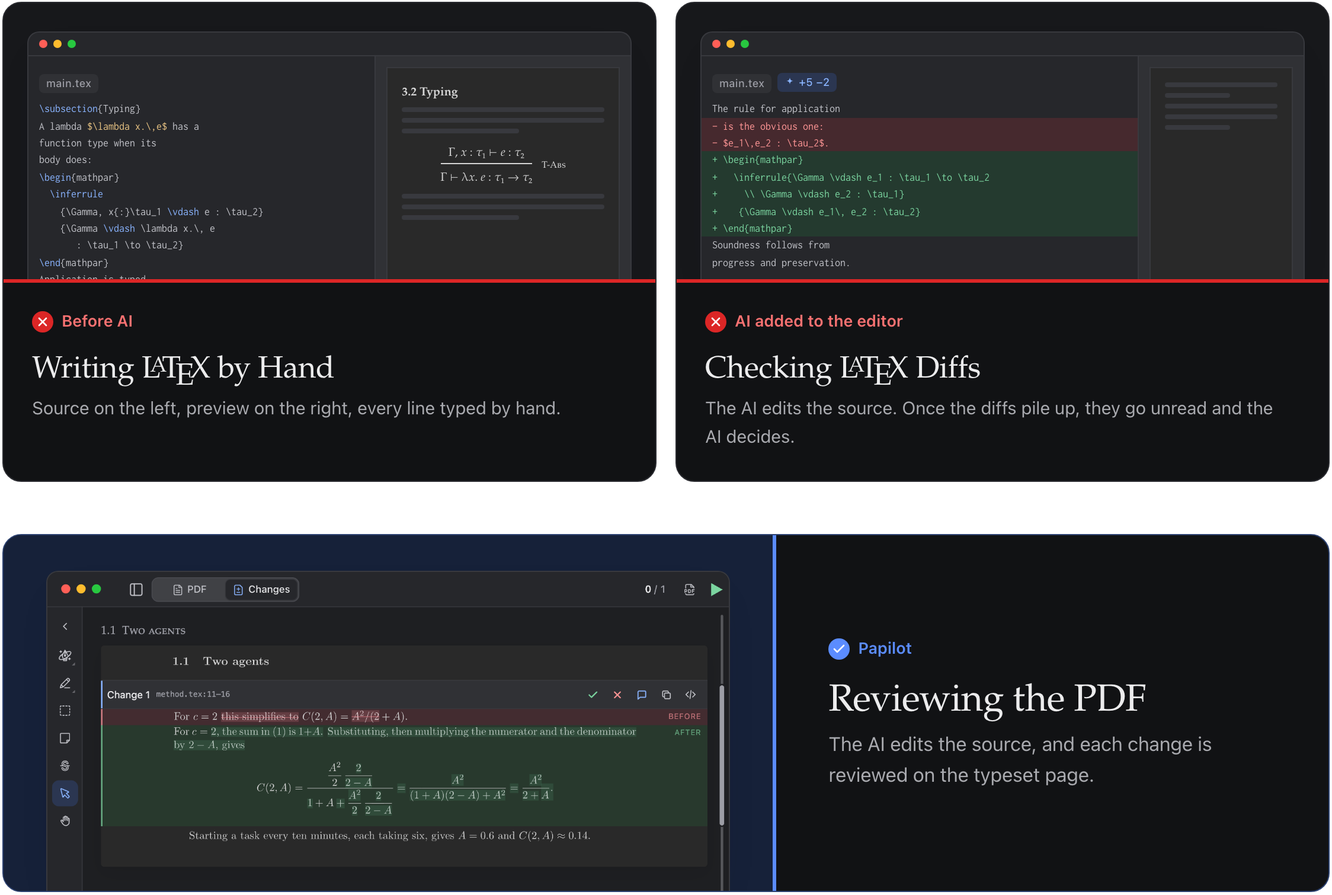
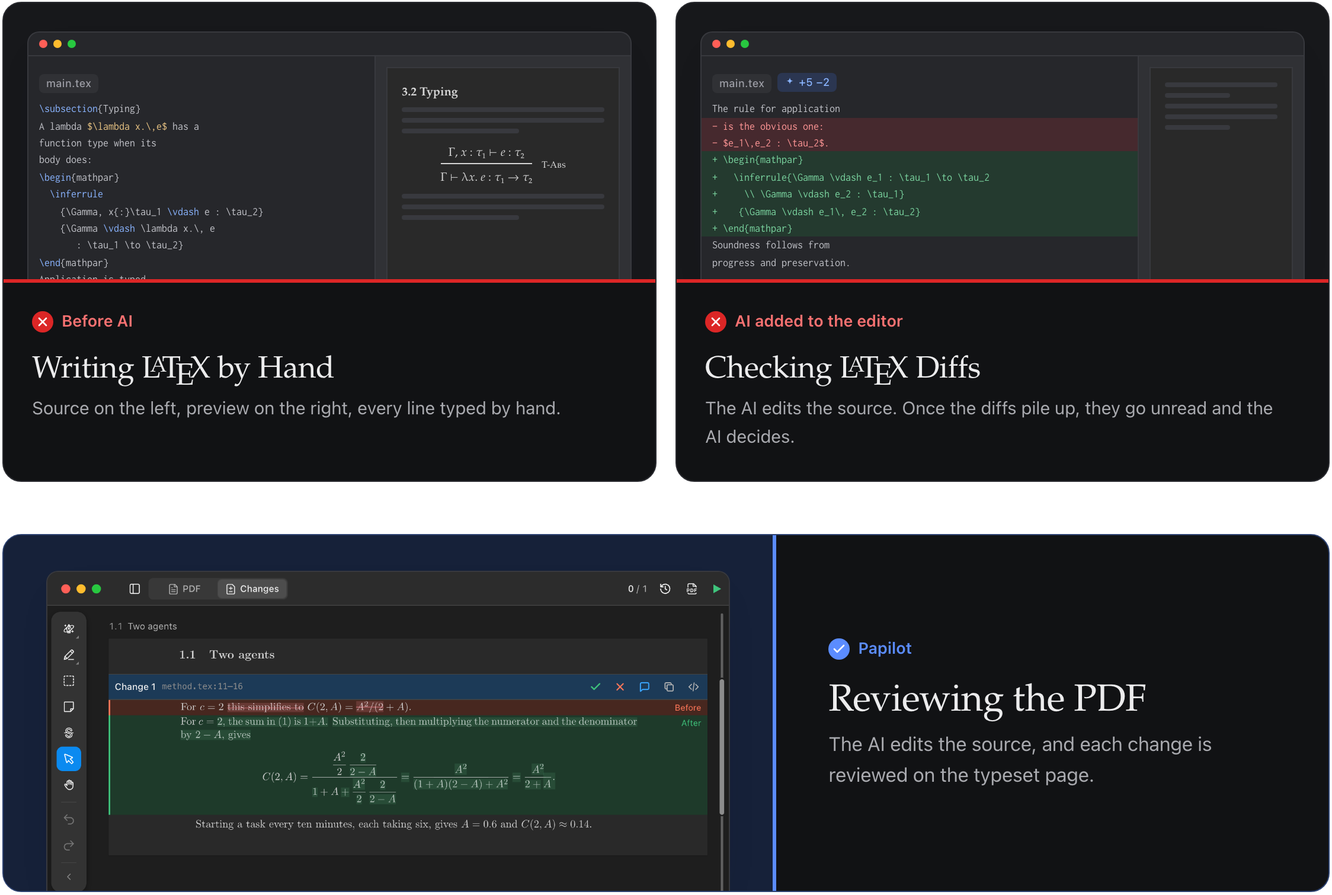
Align canvas controls with their states and actions

diff --git a/src/web/style.css b/src/web/style.css
@@ -674,6 +674,9 @@ body.resizing iframe{pointer-events:none}
 @container (max-width:380px){html:not([lang^=zh]) .side-tabs>button:not([aria-selected=true]) .tab-label{position:absolute;width:1px;height:1px;overflow:hidden;clip-path:inset(50%);white-space:nowrap}}
 @container (max-width:310px){.side-tabs>button:not([aria-selected=true]) .tab-label{position:absolute;width:1px;height:1px;overflow:hidden;clip-path:inset(50%);white-space:nowrap}}
 .side-tabs>button{display:flex;align-items:center;gap:6px;height:28px;padding:0 8px;flex-shrink:0;border-radius:var(--r);font-size:12px;font-weight:500;color:var(--text-3);transition:background-color .15s,color .15s}
+.side-tabs>[data-task-home]{flex-shrink:1;min-width:min-content;height:auto;min-height:28px;padding-block:2px}
+.side-tabs>[data-task-home] .tab-label{min-width:0;white-space:normal;line-height:1.2}
+.side-tabs>[data-task-home]>svg,.side-tabs>[data-task-home]>.count{flex-shrink:0}
 .side-tabs>button:hover{background:transparent;color:var(--text-2)}
 .side-tabs>button[aria-selected=true]{background:transparent;color:var(--text)}
 /* The notes added to the task: a count badge, so it doesn't read as part of the name. */
@@ -708,7 +711,9 @@ body.resizing iframe{pointer-events:none}
 .note-selection-head{display:flex;align-items:center;justify-content:space-between;gap:12px;width:100%}
 .note-select-all{padding:4px 0;color:var(--text-2);font:inherit;white-space:nowrap}
 .note-select-all:hover:not(:disabled){color:var(--text)}
-.side-header-actions{display:flex;align-items:center;flex-shrink:0}
+.side-header-actions>.note-select-all{min-height:28px;padding:4px 8px;border-radius:var(--r);line-height:1.2;white-space:normal}
+.side-header-actions>.note-select-all:hover:not(:disabled){background:var(--bg-hover)}
+.side-header-actions{display:flex;align-items:center;flex:0 1 auto;min-width:0;max-width:46%}
 .side-header-actions[hidden]{display:none}
 .notes-panel>.note-section:first-of-type{margin-top:0}
 .notes-panel .note-card{position:relative;isolation:isolate;transition:background-color .15s,border-color .15s}
@@ -869,7 +874,7 @@ body.resizing iframe{pointer-events:none}
 .action-menu{position:fixed;inset:auto;margin:0;padding:6px;min-width:210px;max-width:min(380px,calc(100vw - 16px));border:0;border-radius:var(--r-lg);background:var(--menu-bg);color:var(--menu-text);box-shadow:var(--menu-shadow);font-size:12px}
 .action-menu:popover-open{display:flex;flex-direction:column;gap:1px;animation:menu-in .14s var(--ease)}
 .action-menu>button,.action-menu>a{display:flex;align-items:center;gap:8px;min-height:28px;padding:4px 8px;border-radius:var(--r);text-align:left;text-decoration:none;color:inherit}
-.action-menu>button:hover:not(:disabled),.action-menu>a:hover,.action-menu>button:focus-visible,.action-menu>a:focus-visible{background:var(--primary);outline:none;color:#fff}
+.action-menu>button:hover:not(:disabled),.action-menu>a:hover,.action-menu>button:focus-visible,.action-menu>a:focus-visible{--menu-text:#fff;--menu-text-2:#fff;--menu-text-3:#fff;background:var(--menu-selection);outline:none;color:var(--menu-text)}
 .action-menu>button>svg,.action-menu>a>svg{color:var(--menu-text-2)}
 .action-menu>.danger-text{color:var(--red)}
 .action-menu>.danger-text>svg{color:currentColor}
@@ -896,7 +901,7 @@ body.resizing iframe{pointer-events:none}
 .paper-menu{min-width:280px}
 .menu-item-row{display:flex;align-items:center;gap:2px}
 .menu-item-row>button{display:flex;align-items:center;gap:8px;flex:1;min-width:0;min-height:32px;padding:4px 8px;border-radius:var(--r);text-align:left}
-.menu-item-row>button:hover,.menu-item-row>button:focus-visible{background:var(--primary);outline:none;color:#fff}
+.menu-item-row>button:hover:not(:disabled),.menu-item-row>button:focus-visible{--menu-text:#fff;--menu-text-2:#fff;--menu-text-3:#fff;background:var(--menu-selection);outline:none;color:var(--menu-text)}
 .menu-item-row .menu-check{flex-shrink:0}
 .menu-item-row .paper-actions{flex:0 0 28px;min-height:28px;justify-content:center;padding:0;width:28px;height:28px;margin-right:3px;color:var(--menu-text-2)}
 .menu-item-row:hover .paper-actions,.menu-item-row:focus-within .paper-actions{color:var(--menu-text)}
@@ -1275,7 +1280,7 @@ body.resizing iframe{pointer-events:none}
 .note-review-scope { display: inline-flex; align-items: center; gap: 0; margin-left: 6px; padding: 2px; border-radius: 6px; background: var(--bg-muted); }
 .note-review-scope button { display: inline-flex; align-items: center; gap: 4px; height: 20px; border: 0; border-radius: 5px; padding: 0 8px; background: transparent; color: var(--text-2); font: inherit; font-size: 11px; font-weight: 500; white-space: nowrap; cursor: pointer; }
 .note-review-scope button:hover { color: var(--text); }
-.note-review-scope button[aria-pressed="true"] { color: var(--text); background: var(--raised); box-shadow: 0 0 0 1px var(--line); }
+.note-review-scope button[aria-pressed="true"] { color: var(--text); background: var(--thumb); box-shadow: 0 0 0 1px var(--line); }
 .note-review-scope button:focus-visible { outline: 1px solid var(--accent); outline-offset: 1px; }
 /* The drawer's header: the note's options as a segmented control, the pager
    and the choice's actions, over a full-bleed rule. */
@@ -1286,7 +1291,7 @@ body.resizing iframe{pointer-events:none}
 .note-option-loading .spinner { width: 12px; height: 12px; }
 .note-option-tab { position: relative; flex-shrink: 0; min-height: 24px; padding: 0 8px; border: 0; border-radius: 5px; background: transparent; color: var(--text-2); font: inherit; font-size: 12px; white-space: nowrap; }
 .note-option-tab:hover:not(:disabled) { color: var(--text); }
-.note-option-tab[aria-selected="true"] { background: var(--raised); color: var(--text); box-shadow: 0 0 0 1px var(--line); }
+.note-option-tab[aria-selected="true"] { background: var(--thumb); color: var(--text); box-shadow: 0 0 0 1px var(--line); }
 .note-option-tab[data-rejected="true"] .note-option-label { text-decoration: line-through; color: var(--text-3); }
 .note-option-content { display: flex; flex-direction: column; min-height: 50px; overflow: auto; padding: 0; background: var(--note-folder); }
 .note-option-label { display: flex; align-items: center; gap: 6px; font-weight: 500; }
@@ -1312,6 +1317,7 @@ body.resizing iframe{pointer-events:none}
 .note-option-comment textarea:focus-visible, .note-option-comment textarea:focus { border-color: var(--accent); background: var(--bg); }
 .note-option-comment textarea::placeholder { color: var(--text-3); }
 .note-option-comment .icon-button { width: 24px; height: 24px; }
+@media(pointer:coarse){.note-option-comment textarea{font-size:16px;min-height:44px}.note-option-comment .icon-button{min-width:44px;min-height:44px}}
 .note-options button:disabled { opacity: .5; cursor: default; }
 
 .note-option-comparison { --pdf-filter: var(--review-filter); --pdf-page: var(--review-page); min-height: 50px; max-height: 200px; overflow: auto; overscroll-behavior: contain; flex: 1 1 auto; padding: 6px 0 10px; background: var(--pdf-page); }

diff --git a/src/web/pdf-tools.css b/src/web/pdf-tools.css
@@ -22,7 +22,7 @@
    margin stays 56px. Thin rules group the tools, undo and redo, anchors, and
    last the collapse button. */
 @media (min-width:681px){
-  .pdf-rail{flex-direction:column;align-items:center;align-self:flex-start;gap:2px;width:46px;max-height:calc(100% - 16px);margin:8px 5px;padding:6px 0;border-radius:12px;background:var(--raised);box-shadow:var(--float);transition:width .16s var(--ease)}
+  .pdf-rail{flex-direction:column;align-items:center;align-self:flex-start;gap:2px;width:46px;max-height:calc(100% - 16px);margin:8px 5px;padding:6px 0;border-radius:12px;background:var(--raised);box-shadow:var(--shadow-sm);transition:width .16s var(--ease)}
   .rail-items{flex:0 1 auto;width:100%}
   /* In a short window the scrolling tool list gives up its height first, so
      history and the anchors' buttons stay inside the bar. */
@@ -32,7 +32,7 @@
   .rail-toggle>svg{width:14px;height:14px}
   .rail-toggle:hover:not(:disabled){background:var(--bg-muted);color:var(--text)}
   .pdf-rail[data-collapsed=true]{width:0;margin:0;padding:0;background:none;box-shadow:none}
-  .pdf-rail[data-collapsed=true] .rail-toggle{position:absolute;left:0;top:12px;width:20px;height:32px;margin:0;border-radius:0 8px 8px 0;background:var(--raised);color:var(--text-2);box-shadow:var(--float)}
+  .pdf-rail[data-collapsed=true] .rail-toggle{position:absolute;left:0;top:12px;width:20px;height:32px;margin:0;border-radius:0 8px 8px 0;background:var(--raised);color:var(--text-2);box-shadow:var(--shadow-sm)}
   .pdf-rail[data-collapsed=true] .rail-toggle::before{display:none}
   .pdf-rail[data-collapsed=true] .rail-toggle:hover{background:var(--bg-muted);color:var(--text)}
 }
@@ -55,7 +55,7 @@
 @keyframes markup-dock-in{from{opacity:0;transform:translate(-50%,8px) scale(.96)}}
 @keyframes markup-pill-in{from{opacity:0;transform:translate(-50%,-6px) scale(.95)}}
 @media (max-width:680px){
-  .pdf-rail{position:absolute;left:50%;bottom:max(10px,calc(env(safe-area-inset-bottom) + 6px));transform:translateX(-50%);z-index:20;flex-direction:row;align-items:center;gap:2px;width:max-content;max-width:calc(100% - 12px);height:46px;padding:5px;border-radius:12px;background:var(--raised);box-shadow:var(--float);transform-origin:bottom center;animation:markup-dock-in .18s var(--ease)}
+  .pdf-rail{position:absolute;left:50%;bottom:max(10px,calc(env(safe-area-inset-bottom) + 6px));transform:translateX(-50%);z-index:20;flex-direction:row;align-items:center;gap:2px;width:max-content;max-width:calc(100% - 12px);height:46px;padding:5px;border-radius:12px;background:var(--raised);box-shadow:var(--shadow-sm);transform-origin:bottom center;animation:markup-dock-in .18s var(--ease)}
   .pdf-rail[data-suspended]{display:none}
   .rail-items{flex-direction:row;flex:1;width:auto;min-width:0;max-width:100%;overflow-x:auto;overflow-y:hidden;scrollbar-width:none}
   .rail-items::-webkit-scrollbar{display:none}

diff --git a/site/style.css b/site/style.css
@@ -228,8 +228,8 @@ html:is([lang=zh-CN],[lang=zh-Hant]) .hero .review-page :is(del,ins){white-space
 .tb-badge{min-width:18px;height:18px;padding:0 5px;border-radius:999px;background:var(--button);color:#fff;font:600 11px/18px var(--sans);font-style:normal;text-align:center}
 .tb-decide{display:flex;flex:none;align-items:center;gap:6px}
 .tb-count{margin-right:4px;color:var(--text);font-variant-numeric:tabular-nums}
-.tb-pill{display:inline-flex;align-items:center;gap:6px;height:30px;padding:0 6px 0 10px;border:1px solid var(--line);border-radius:999px;background:var(--bg);box-shadow:0 1px 3px rgb(0 0 0/.05);color:var(--text)}
-.tb-pill b{min-width:18px;height:18px;padding:0 5px;border-radius:999px;background:var(--bg-muted);color:var(--text-2);font:500 11.5px/18px var(--sans);text-align:center}
+.tb-action{display:inline-flex;align-items:center;gap:6px;height:28px;padding:0 8px;border:1px solid var(--line);border-radius:5px;background:var(--bg);color:var(--text)}
+.tb-action b{min-width:18px;height:18px;padding:0 5px;border-radius:999px;background:var(--bg-muted);color:var(--text-2);font:500 11.5px/18px var(--sans);text-align:center}
 .tb-accept .ic{color:var(--accept)}
 .tb-reject .ic{color:var(--reject)}
 /* The PDF's marking tools, in a rail at its left edge. */
@@ -245,7 +245,7 @@ html:is([lang=zh-CN],[lang=zh-Hant]) .hero .review-page :is(del,ins){white-space
 @container (max-width:920px){
   .app-tb .tb-label{display:none}
   .app-tb .tb-seg>b{padding:0 8px}
-  .tb-pill{padding:0 4px 0 9px}
+  .tb-action{padding:0 4px 0 9px}
 }
 @media(min-width:721px){@container (max-width:600px){
   .app-rail{display:none}
@@ -854,7 +854,7 @@ html:is([lang=zh-CN],[lang=zh-Hant]) .hero .review-page :is(del,ins){white-space
   .app-tb{height:44px;padding:0 8px}
   :is(.app-tb.side,.tb-sidebar,.app-tb .tb-run,.app-tb .tb-label){display:none}
   .app-tb .tb-seg>b{padding:0 8px}
-  .tb-pill{padding:0 4px 0 9px}
+  .tb-action{padding:0 4px 0 9px}
   .app-body{grid-template-columns:minmax(0,1fr)}
   .app-rail{display:none}
   .app-pdf{padding:14px 12px 0}

diff --git a/site/index.html b/site/index.html
@@ -137,7 +137,7 @@
           <i class="tb-icon tb-sidebar"><svg class="ic"><use href="#i-sidebar"/></svg></i>
           <span class="tb-seg"><b class="tb-pdf"><svg class="ic"><use href="#i-paper"/></svg><span class="tb-label">PDF</span></b><b class="tb-changes"><svg class="ic"><use href="#i-diff"/></svg><span class="tb-label"><span lang="en">Changes</span><span lang="zh-CN">改动</span></span></b></span>
           <span class="tb-space"></span>
-          <span class="tb-decide"><span class="tb-count">0 / 1</span><span class="tb-pill tb-accept"><svg class="ic"><use href="#i-check"/></svg><span class="tb-label"><span lang="en">Accept all</span><span lang="zh-CN">全部接受</span></span><b>1</b></span><span class="tb-pill tb-reject"><svg class="ic"><use href="#i-close"/></svg><span class="tb-label"><span lang="en">Reject all</span><span lang="zh-CN">全部拒绝</span></span><b>1</b></span></span>
+          <span class="tb-decide"><span class="tb-count">0 / 1</span><span class="tb-action tb-accept"><svg class="ic"><use href="#i-check"/></svg><span class="tb-label"><span lang="en">Accept all</span><span lang="zh-CN">全部接受</span></span><b>1</b></span><span class="tb-action tb-reject"><svg class="ic"><use href="#i-close"/></svg><span class="tb-label"><span lang="en">Reject all</span><span lang="zh-CN">全部拒绝</span></span><b>1</b></span></span>
           <i class="tb-icon tb-run"><svg class="ic"><use href="#i-compile"/></svg></i>
         </div>
         <div class="app-tb side"><span class="tb-seg icons"><b><svg class="ic"><use href="#i-paper"/></svg></b><b class="on"><svg class="ic"><use href="#i-split"/></svg></b><b><svg class="ic"><use href="#i-chat"/></svg></b></span><span class="tb-space"></span><i class="tb-icon"><svg class="ic"><use href="#i-external"/></svg></i></div>

diff --git a/engine/src/web/style.css b/engine/src/web/style.css
@@ -234,32 +234,24 @@ kbd {
   background: var(--bg-muted);
   color: var(--text);
 }
-/* Accept all and Reject all exclude each other: one segmented control, its
-   halves split by a thin rule, the hovered half raised like a selection. */
+/* Batch decisions are commands, distinct from the segmented view switches. */
 .batch-decisions {
   display: inline-flex;
   flex-shrink: 0;
-  padding: 2px;
-  border-radius: 6px;
-  background: var(--bg-muted);
+  gap: 4px;
 }
 .batch-decisions .accept-all,
 .batch-decisions .reject-all {
-  height: 24px;
-  padding: 0 9px;
-  border: 0;
+  min-height: 28px;
+  padding: 0 8px;
+  border: 1px solid var(--line-strong);
   border-radius: 5px;
-  background: transparent;
+  background: var(--bg);
   color: var(--text);
 }
-.batch-decisions .accept-all + .reject-all {
-  background: linear-gradient(var(--line-strong), var(--line-strong)) left center / 1px 12px no-repeat;
-}
-.batch-decisions .accept-all:hover:not(:disabled),
-.batch-decisions .reject-all:hover:not(:disabled),
-.batch-decisions > button:focus-visible {
-  background: var(--thumb, var(--bg));
-  box-shadow: 0 0 0 1px var(--line);
+.batch-decisions > button:hover:not(:disabled) {
+  background: var(--bg-hover);
+  border-color: var(--line-hover);
 }
 /* How many undecided changes the batch decides. */
 .batch-count {

diff --git a/src/web/theme.css b/src/web/theme.css
@@ -21,7 +21,7 @@
   --green:#14a35a;--green-soft:#e6f6ec;--purple:#8a46f0;--purple-soft:#f2ebfe;--red:#e5482d;--red-soft:#fdede9;--red-line:#f8c4b8;
   --amber:#f5a524;--amber-soft:#fff5e0;--amber-line:#fcd99a;--amber-text:#a15c00;
   --danger:#e5482d;--danger-hover:#cc3b22;
-  /* Elevation: controls, cards, then floating toolbars, popovers and dialogs. */
+  /* Elevation: controls, floating toolbars, then popovers and dialogs. */
   --shadow-xs:0 0 0 .5px rgb(0 0 0/.15),0 1px 3px rgb(0 0 0/.1);
   --shadow-sm:0 0 .5px rgb(0 0 0/.18),0 3px 8px rgb(0 0 0/.1),0 1px 3px rgb(0 0 0/.1);
   --float:0 0 .5px rgb(0 0 0/.12),0 10px 16px rgb(0 0 0/.12),0 2px 5px rgb(0 0 0/.15);
@@ -29,6 +29,8 @@
   /* Menus, tooltips and toasts float above the panels. */
   --menu-bg:var(--raised);--menu-text:var(--text);--menu-text-2:var(--text-2);--menu-text-3:var(--text-3);--menu-line:var(--line);--menu-hover:var(--bg-hover);
   --menu-shadow:var(--float);
+  /* White menu labels and details need more contrast than the primary fill. */
+  --menu-selection:#0974ca;
   --scrim:rgb(0 0 0/.32);
   --scroll-thumb:rgb(0 0 0/.12);--scroll-hover:rgb(0 0 0/.2);--scroll-active:rgb(0 0 0/.34);
   --pdf-filter:none;--pdf-page:#ffffff;

diff --git a/src/web/main.tsx b/src/web/main.tsx
@@ -928,7 +928,7 @@ function TaskNotes({ notes, currentKey, actions, onShow, controller, cards, head
   return <section ref={panel} className="task-notes-panel" aria-label={t('Notes in this task')}>
     {/* Beside the panel's tabs, whose count already says how many notes the task has; phones hide that header. */}
     {chosen.length > 0 && (headerSlot
-      ? createPortal(<button type="button" className="icon-button" aria-label={t('Remove all from task')} title={t('Remove all from task')} disabled={selectionLocked} onClick={() => putBack(chosen)}><Icon name="minus" size={16}/></button>, headerSlot)
+      ? createPortal(<button type="button" className="note-select-all" disabled={selectionLocked} onClick={() => putBack(chosen)}>{t('Remove all from task')}</button>, headerSlot)
       : <div className="note-selection-head"><span>{t('Added to task: {n}', { n: chosen.length })}</span><button type="button" className="note-select-all" disabled={selectionLocked} onClick={() => putBack(chosen)}>{t('Remove all from task')}</button></div>)}
     {noteGroups(notes).map(({ group, entries }) => {
       const selected = entries.filter(({ note }) => actions.selection.has(note.id));

diff --git a/src/web/review-frame.tsx b/src/web/review-frame.tsx
@@ -144,7 +144,7 @@ function compactReviewFrame(doc: Document, reserve: number, lead: number, change
       .change-head .link{height:36px;padding:0 8px}
       .change-head .source-toggle{width:36px}
       .change-head .dock{display:flex;position:fixed;z-index:6;left:50%;right:auto;transform:translateX(-50%);width:min(352px,calc(100% - 20px));bottom:calc(max(10px,env(safe-area-inset-bottom)) + var(--papilot-bottom-rail,0px));margin:0;transition:bottom .16s cubic-bezier(.2,0,0,1)}
-      .change-head .actions{display:flex;width:100%;flex-wrap:nowrap;align-items:center;justify-content:space-between;gap:4px;padding:4px;border-radius:12px;background:var(--raised);box-shadow:var(--float)}
+      .change-head .actions{display:flex;width:100%;flex-wrap:nowrap;align-items:center;justify-content:space-between;gap:4px;padding:4px;border-radius:12px;background:var(--raised);box-shadow:var(--shadow-sm)}
       .change-head .actions>*{order:initial!important}
       .change-head .actions button{flex:1 1 auto;min-width:0;height:40px;gap:6px;padding:0 8px;font-size:13px}
       .change-head .actions .nav{flex:0 0 36px;width:36px;min-width:36px;height:40px;padding:0}

diff --git a/src/web/appearance.ts b/src/web/appearance.ts
@@ -68,6 +68,7 @@ export function appearanceVariables(appearance: Appearance, mode: ColorMode): Re
     '--accent-soft': !custom && !customAccent ? (dark ? '#1c3a57' : '#e5f3ff') : mix(bg, activeAccent, .11),
     '--accent-line': !custom && !customAccent ? (dark ? '#2e5f8c' : '#b3dbff') : mix(bg, activeAccent, .3),
     '--primary': accent, '--primary-hover': customAccent ? mix(accent, '#000000', .18) : (dark ? '#2496f2' : '#0a76d1'),
+    '--menu-selection': mix(accent, '#000000', .16),
     '--ring': `0 0 0 1px ${activeAccent}`,
     '--pdf-filter': darkPaper ? 'invert(.84) hue-rotate(180deg)' : 'none',
     '--pdf-page': darkPaper ? '#292929' : '#ffffff',

diff --git a/engine/src/web/review.tsx b/engine/src/web/review.tsx
@@ -1703,8 +1703,6 @@ export function ReviewApp({
           {/* Batch decisions cover only undecided changes; accepted,
               rejected and commented changes keep their state. A single
               undecided change is decided from its own bar. */}
-          {/* The two batch decisions exclude each other, so they share one
-              segmented control. */}
           {undecided.length > 1 && (batch.length > 0 || !changes) && (
             <div className="batch-decisions">
               {batch.length > 0 && (

diff --git a/docs/guide.md b/docs/guide.md
@@ -159,7 +159,7 @@ Anchor names stay in this browser across reloads and reopening, separately for e
 If application finds overlapping edits in the latest manuscript, Papilot leaves the manuscript unchanged and automatically asks AI to resolve the conflict in the task copy. Compatible edits remain accepted, including clean passages in a file with conflicts. The new PDF review shows the proposed changes to overlapping passages against the latest wording. Accept or reject those suggestions, then choose **Confirm and commit** or **Confirm and apply**. Your original save choice and commit message survive the conflict review and a restart. AI handles conflicts itself when your instructions and the manuscript context make the intended result clear. Only when it cannot determine the intended content does it ask a short question in Chat, showing the alternatives; after your answer, it continues the merge. If the reviewed result keeps the latest wording unchanged, **Keep latest wording and apply** saves only the other accepted edits. Papilot checks the manuscript again at application time, so an overlapping edit made during review requires another suggestion. Worktree details and the commit graph appear in **Git** after enabling **Settings → General → Show advanced Git features**.
 4. If you commented, use **Send feedback** below the PDF review to send your decisions and comments to the agent for another round; it also sends rounds whose changes you all rejected. You can also write further instructions in the conversation panel. Both actions include new review feedback. Sending feedback opens the conversation on a phone, or the split view when reviewing on desktop, while preserving an unsent instruction draft.
 
-While Codex works, the composer shows a stop button that pauses the task; when the chat is hidden, **Pause** appears in the task header instead. The header also keeps status and recovery actions beside the selected task. Choose **Review**, **Split**, or **Chat** for the desktop workspace; choosing a view always shows that view, and the choice is saved in this browser. On phones, switch between **Review** and **Chat** in the header. PDF controls share the review toolbar with the viewer's progress, **Accept all** and **Reject all**: **Full PDF** and **Build review** (the refresh button) to build the review again. Each batch button shows how many undecided changes it decides. When the review panel is narrow, the toolbar keeps everything on one line: the progress and the shortcuts button go first, then **Accept all** and **Reject all** show only their icon and count (hover for the full name), and **Notes** shows only its icon; on a phone **Build review** is hidden too, since a failed build offers it. The review always fits the panel's width. **Accept all** and **Reject all** apply only to changes you have not decided yet; accepted, rejected and commented changes keep their state, and one undo reverses the whole batch. On phones, the current change's Accept, Reject and Comment bar sits at the bottom of the screen, menus open as bottom sheets, **Full PDF** is in **Review options**, and **Fit** crops the page margins so the text block fills the width. The zoom menu enlarges PDF strips; scroll horizontally to read enlarged content. Real-device keyboard and touch behavior still needs validation on iOS and Android.
+While Codex works, the composer shows a stop button that pauses the task; when the chat is hidden, **Pause** appears in the task header instead. The header also keeps status and recovery actions beside the selected task. Choose **Review**, **Split**, or **Chat** for the desktop workspace; choosing a view always shows that view, and the choice is saved in this browser. On phones, switch between **Review** and **Chat** in the header. PDF controls share the review toolbar with the viewer's progress, **Accept all** and **Reject all**: **Full PDF** and **Build review** (the refresh button) to build the review again. The separate **Accept all** and **Reject all** buttons act immediately; each shows how many undecided changes it decides. When the review panel is narrow, the toolbar keeps everything on one line: the progress and the shortcuts button go first, then **Accept all** and **Reject all** show only their icon and count (hover for the full name), and **Notes** shows only its icon; on a phone **Build review** is hidden too, since a failed build offers it. The review always fits the panel's width. **Accept all** and **Reject all** apply only to changes you have not decided yet; accepted, rejected and commented changes keep their state, and one undo reverses the whole batch. On phones, the current change's Accept, Reject and Comment bar sits at the bottom of the screen, menus open as bottom sheets, **Full PDF** is in **Review options**, and **Fit** crops the page margins so the text block fills the width. The zoom menu enlarges PDF strips; scroll horizontally to read enlarged content. Real-device keyboard and touch behavior still needs validation on iOS and Android.
 
 If the PDF comparison service disconnects, Papilot retries briefly and keeps the original build request. If it stays unavailable, select **Check status** to resume that build. Restarting Papilot also resumes saved builds. A completed comparison opens for review without rerunning the agent; a build confirmed to have been interrupted by a service restart is rebuilt once. Repeated service failures and compiler errors remain visible for troubleshooting. Your edits stay in the task copy throughout recovery.
 

diff --git a/CHANGELOG.md b/CHANGELOG.md
@@ -26,7 +26,7 @@ Notable changes to Papilot, newest first. The format follows [Keep a Changelog](
 - Clarify **Import or open**: opening an existing folder edits its original files, while **Import a copy** keeps originals unchanged. The original-folder option is visible immediately. Folder and ZIP uploads stream to disk without the former 64 MiB / 5,000-file caps.
 
 - **A canvas-style interface.** The PDF lies on a light grey canvas between white panels joined by thin rules, like a design tool's canvas. Interface text is 12px and reading text 13px; buttons and fields are 28px and filled; menus, tooltips and dialogs float as white surfaces with rounder corners. Blue marks selection, focus and primary actions; other colours only carry meaning, such as changes, warnings and stamps. The marking tools float as a vertical tool bar beside the pages. Settings, dialogs, version control, notes and the review viewer use the same controls, in light and dark themes.
-- Mark a task's PDF before it has a review: until the agent's changes are ready, the task view offers every marking tool, and the marks go to the agent with the next follow-up, like comments. **Accept all** and **Reject all** sit together as one segmented control. The gallery's **Example project** shows its first page. **Open review in new tab** is gone; the review stays in the workspace. **Share** moved into the PDF toolbar, and **Remove all from task** is a **−** button beside the panel's tabs, one row higher; the tab shows how many notes the task has as a badge.
+- Mark a task's PDF before it has a review: until the agent's changes are ready, the task view offers every marking tool, and the marks go to the agent with the next follow-up, like comments. **Accept all** and **Reject all** are separate action buttons beside the view switches. The gallery's **Example project** shows its first page. **Open review in new tab** is gone; the review stays in the workspace. **Share** moved into the PDF toolbar, and **Remove all from task** is a text button beside the panel's tabs, one row higher; the tab shows how many notes the task has as a badge.
 - Selecting text in **Changes** works as it does in the PDF: a drag can cross lines and blank space without jumping to the end of the passage, a double-click selects a word and a triple-click a line, and the selection reads as one band per line.
 - Simplify PDF reading controls: remove back/forward history buttons and their separator, align the outline bookmark, anchor numbers and **+** in one compact column, and show a corner delete button on hover or keyboard focus. Phones also show **+** for direct anchor creation. Deletion keeps the current reading position and moves keyboard focus to the next anchor or **+**. Contents, page controls and internal links remain available.
 
